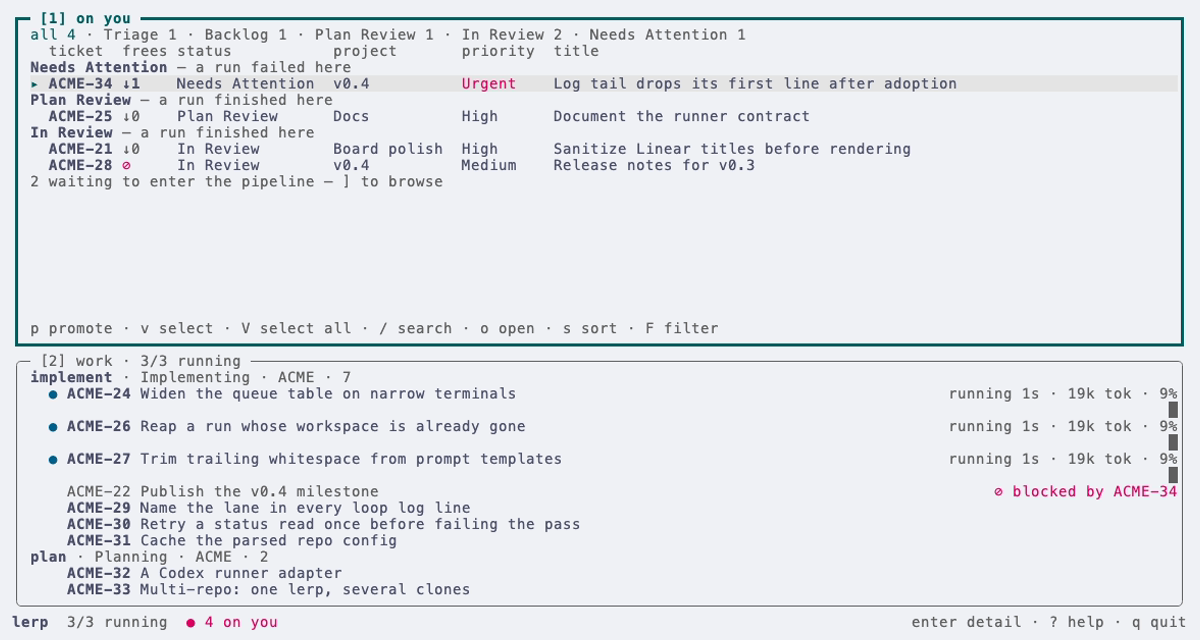
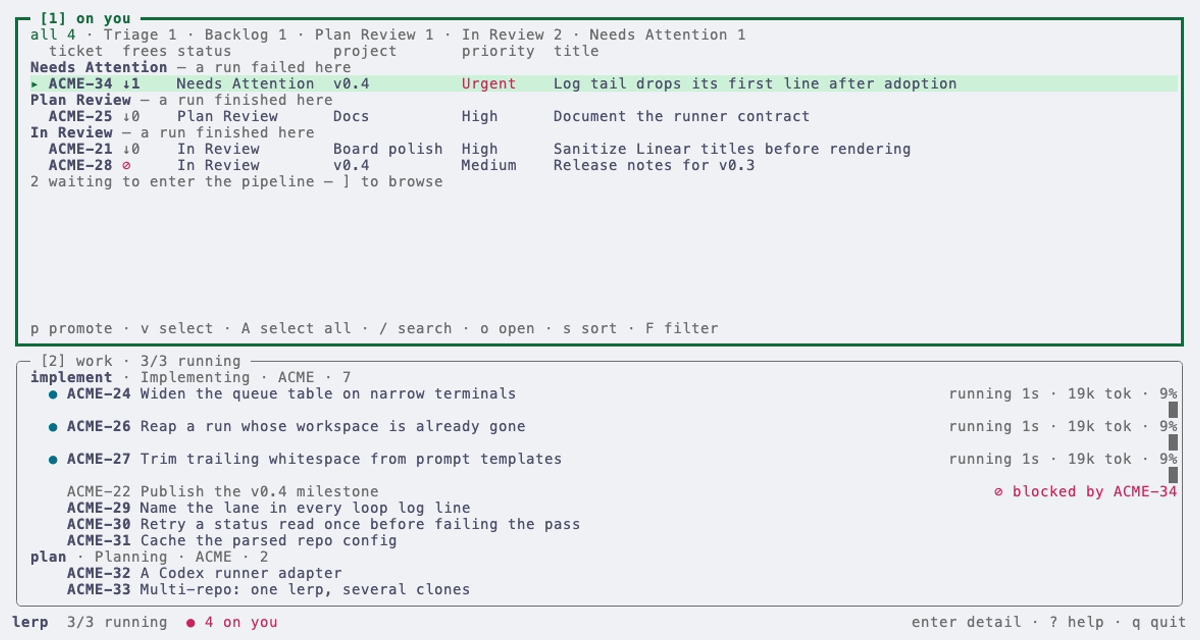
LERP-230: Select all moves from V to A

Changed region(s): [[0.37, 0.125, 0.4317, 0.1562], [0.9558, 0.5312, 0.9867, 0.5625], [0.185, 0.5, 0.2158, 0.5312]]

diff --git a/internal/tui/model_test.go b/internal/tui/model_test.go
@@ -2785,9 +2785,9 @@ func TestVisualAllGrabsEveryShownRow(t *testing.T) {
 	m = update(t, m, keyMsg("1"))
 	m = update(t, m, eventMsg{ev: threeWaiting()})
 
-	m = update(t, m, keyMsg("V"))
+	m = update(t, m, keyMsg("A"))
 	if !m.visual {
-		t.Fatal("V did not start visual mode")
+		t.Fatal("A did not start visual mode")
 	}
 	if m.visualAnchor != "LERP-1" {
 		t.Fatalf("visualAnchor = %q, want LERP-1 (first shown row)", m.visualAnchor)
@@ -2821,7 +2821,7 @@ func TestVisualAllGrabsEveryShownRow(t *testing.T) {
 	}
 }
 
-// Done-when: V selects only the rows left visible under an active project filter.
+// Done-when: A selects only the rows left visible under an active project filter.
 func TestVisualAllScopedToProjectFilter(t *testing.T) {
 	m, _, _, promoter := newPromoteTestModel(t, 1, defaultTestStatuses)
 	m = pastTheSplash(t, m)
@@ -2842,9 +2842,9 @@ func TestVisualAllScopedToProjectFilter(t *testing.T) {
 		t.Fatalf("test setup: expected 2 shown rows under Alpha, got %d", len(m.shown))
 	}
 
-	m = update(t, m, keyMsg("V"))
+	m = update(t, m, keyMsg("A"))
 	if !m.visual {
-		t.Fatal("V did not start visual mode")
+		t.Fatal("A did not start visual mode")
 	}
 	if count := m.visualSelectionCount(); count != 2 {
 		t.Fatalf("visualSelectionCount = %d, want 2", count)
@@ -2865,7 +2865,7 @@ func TestVisualAllScopedToProjectFilter(t *testing.T) {
 	}
 }
 
-// Done-when: V selects only the rows left visible under an active search filter.
+// Done-when: A selects only the rows left visible under an active search filter.
 func TestVisualAllScopedToSearchFilter(t *testing.T) {
 	m, _, _, promoter := newPromoteTestModel(t, 1, defaultTestStatuses)
 	m = pastTheSplash(t, m)
@@ -2885,9 +2885,9 @@ func TestVisualAllScopedToSearchFilter(t *testing.T) {
 		t.Fatalf("test setup: search not set or wrong shown count: search=%q shown=%d", m.search, len(m.shown))
 	}
 
-	m = update(t, m, keyMsg("V"))
+	m = update(t, m, keyMsg("A"))
 	if !m.visual {
-		t.Fatal("V did not start visual mode")
+		t.Fatal("A did not start visual mode")
 	}
 	if count := m.visualSelectionCount(); count != 2 {
 		t.Fatalf("visualSelectionCount = %d, want 2", count)
@@ -2908,17 +2908,17 @@ func TestVisualAllScopedToSearchFilter(t *testing.T) {
 	}
 }
 
-// Done-when: esc drops a selection started with V back to a single-ticket promote
-// standing on the last row (where V left the cursor).
+// Done-when: esc drops a selection started with A back to a single-ticket promote
+// standing on the last row (where A left the cursor).
 func TestVisualAllEscDegradesToSingleTicket(t *testing.T) {
 	m, _, _, promoter := newPromoteTestModel(t, 1, defaultTestStatuses)
 	m = pastTheSplash(t, m)
 	m = update(t, m, keyMsg("1"))
 	m = update(t, m, eventMsg{ev: threeWaiting()})
 
-	m = update(t, m, keyMsg("V"))
+	m = update(t, m, keyMsg("A"))
 	if !m.visual {
-		t.Fatal("V did not start visual mode")
+		t.Fatal("A did not start visual mode")
 	}
 	m = update(t, m, keyMsg("esc"))
 	if m.visual {
@@ -2943,7 +2943,7 @@ func TestVisualAllEscDegradesToSingleTicket(t *testing.T) {
 	}
 }
 
-// Done-when: pressing V while already in a visual selection expands the selection
+// Done-when: pressing A while already in a visual selection expands the selection
 // to all currently shown rows.
 func TestVisualAllExpandsExistingVisualRange(t *testing.T) {
 	m, _, _, _ := newPromoteTestModel(t, 1, defaultTestStatuses)
@@ -2964,8 +2964,8 @@ func TestVisualAllExpandsExistingVisualRange(t *testing.T) {
 		t.Fatalf("test setup: visualSelectionCount = %d, want 2", count)
 	}
 
-	// Press V: expands to all 4 rows
-	m = update(t, m, keyMsg("V"))
+	// Press A: expands to all 4 rows
+	m = update(t, m, keyMsg("A"))
 	if !m.visual {
 		t.Fatal("visual mode ended unexpectedly")
 	}
@@ -4095,13 +4095,13 @@ func TestFocusedPanelCarriesItsKeys(t *testing.T) {
 		TicketID: "id-9", Ticket: "LERP-9", Queue: "implement", LogPath: "/dev/null"}})
 
 	view := m.View()
-	for _, want := range []string{"p promote", "v select", "V select all"} {
+	for _, want := range []string{"p promote", "v select", "A select all"} {
 		if !strings.Contains(view, want) {
 			t.Fatalf("the needs-you panel does not offer %q:\n%s", want, view)
 		}
 	}
 	// In the 45-column panel a 100-column terminal leaves, the list is two
-	// keys over budget now v and V are in the mix: nothing here is in a
+	// keys over budget now v and A are in the mix: nothing here is in a
 	// project, so P was already dead weight, and s — a display cycle, the
 	// tier project is in — is what gives an action key the room.
 	if strings.Contains(view, "P project") {
@@ -4142,12 +4142,12 @@ func TestTheKeyLineKeepsTheKeysThatAct(t *testing.T) {
 	m = update(t, m, keyMsg("enter"))
 
 	line := lineWith(t, m.View(), "p promote")
-	for _, want := range []string{"p promote", "v select", "V select all"} {
+	for _, want := range []string{"p promote", "v select", "A select all"} {
 		if !strings.Contains(line, want) {
 			t.Fatalf("the key line dropped %q, which acts on the row:\n%s", want, line)
 		}
 	}
-	// Three keys short of the room now v and V are in the mix: search and
+	// Three keys short of the room now v and A are in the mix: search and
 	// both display cycles — sort and filter — with the ellipsis to say the
 	// ? overlay has the rest.
 	if strings.Contains(line, "s sort") || strings.Contains(line, "F filter") {
@@ -8610,10 +8610,10 @@ func TestProjectFilterVisualAllPromoteInBacklogSlice(t *testing.T) {
 		t.Fatalf("shown = %v, want the two OSS backlog tickets", got)
 	}
 
-	// Select all rows with 'V':
-	m = update(t, m, keyMsg("V"))
+	// Select all rows with 'A':
+	m = update(t, m, keyMsg("A"))
 	if !m.visual {
-		t.Fatal("V did not enter visual mode")
+		t.Fatal("A did not enter visual mode")
 	}
 	if got := m.visualSelectionCount(); got != 2 {
 		t.Fatalf("visual selected count = %d, want 2", got)

diff --git a/internal/tui/keys.go b/internal/tui/keys.go
@@ -25,7 +25,9 @@ type keymap struct {
 	Promote   key.Binding
 	// Visual starts the inbox's multi-select: lazygit's own key for a range
 	// selection, extended by the movement keys and fed straight to Promote.
-	// VisualAll selects the entire shown range in one keystroke.
+	// VisualAll is A for "all" — selected over vim's V so it reads on its
+	// own rather than relying on knowing visual line mode — selecting the
+	// entire shown range in one keystroke.
 	Visual     key.Binding
 	VisualAll  key.Binding
 	Eject      key.Binding
@@ -85,7 +87,7 @@ func newKeymap() keymap {
 		Close:     key.NewBinding(key.WithKeys("esc"), key.WithHelp("esc", "close detail")),
 		Promote:   key.NewBinding(key.WithKeys("p"), key.WithHelp("p", "promote")),
 		Visual:    key.NewBinding(key.WithKeys("v"), key.WithHelp("v", "select a range")),
-		VisualAll: key.NewBinding(key.WithKeys("V"), key.WithHelp("V", "select all")),
+		VisualAll: key.NewBinding(key.WithKeys("A"), key.WithHelp("A", "select all")),
 		Eject:     key.NewBinding(key.WithKeys("e"), key.WithHelp("e", "eject")),
 		// S, not s: a letter that means two different things depending on
 		// which panel has focus is worse than a letter nothing else uses.

diff --git a/internal/tui/model.go b/internal/tui/model.go
@@ -1038,7 +1038,7 @@ func (m model) handleKey(msg tea.KeyMsg) (tea.Model, tea.Cmd) {
 			}
 		}
 	case key.Matches(msg, m.keys.VisualAll):
-		// V selects the full shown range in one keystroke — whatever the
+		// A selects the full shown range in one keystroke — whatever the
 		// active project filter, search, and fold state have left visible.
 		if m.focus == panelAttention && len(m.shown) > 0 && len(m.o.Statuses) > 0 {
 			m.visual, m.visualAnchor = true, m.shown[0].Ticket

diff --git a/docs/content/docs/promoting.md b/docs/content/docs/promoting.md
@@ -37,12 +37,14 @@ backs out without writing.
 ## Several at once
 
 `v` on a row starts a visual-mode range, and the movement keys extend it.
-`esc` drops it, and so does anything that reorders or narrows the rows it
-is drawn over, sorting, scoping to a project, slicing or searching. `p`
-then opens the picker once, for one target, and every selected ticket
-goes through the same promote. One failing never stops the rest. The note
-says how many made it, and a row that did not carries a `✗` until it
-promotes cleanly or leaves the board.
+`A` selects every shown row in one keystroke, scoped to whatever the
+active project filter, search, or status slice has left visible. `esc` drops
+the selection, and so does anything that reorders or narrows the rows it is
+drawn over, sorting, scoping to a project, slicing or searching. `p` then
+opens the picker once, for one target, and every selected ticket goes
+through the same promote. One failing never stops the rest. The note says
+how many made it, and a row that did not carries a `✗` until it promotes
+cleanly or leaves the board.
 
 ## After the promote
 
